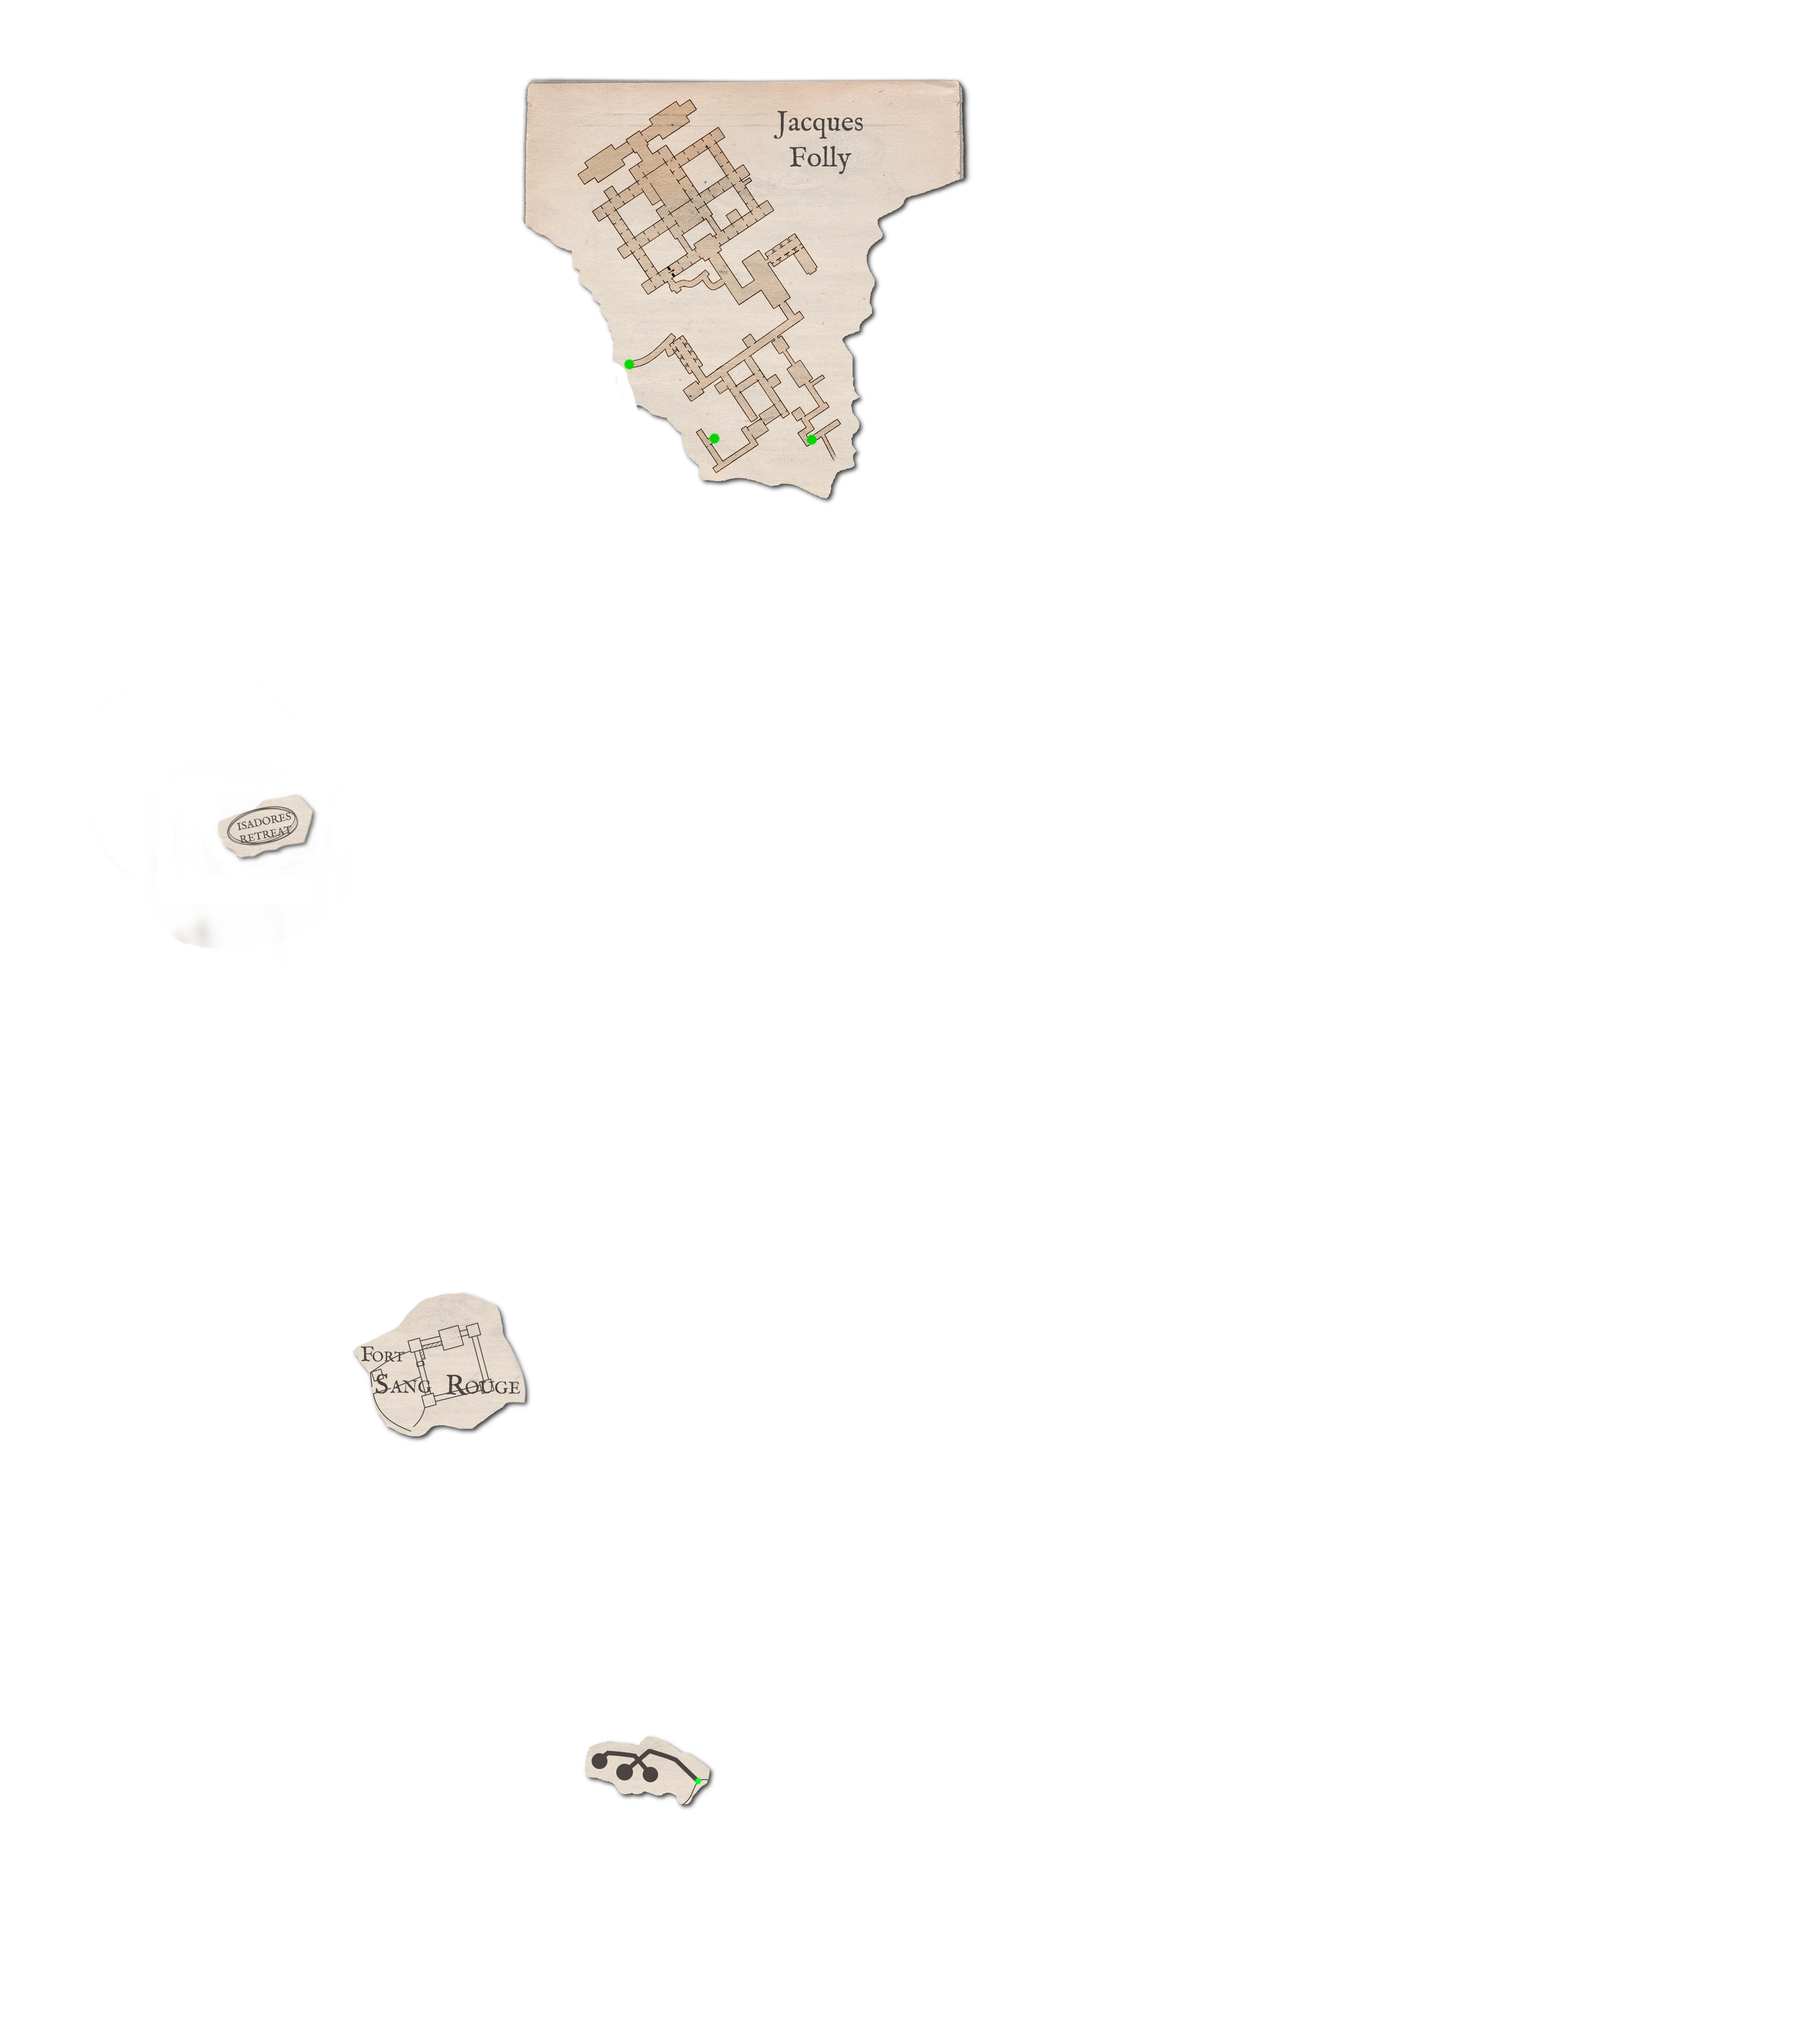
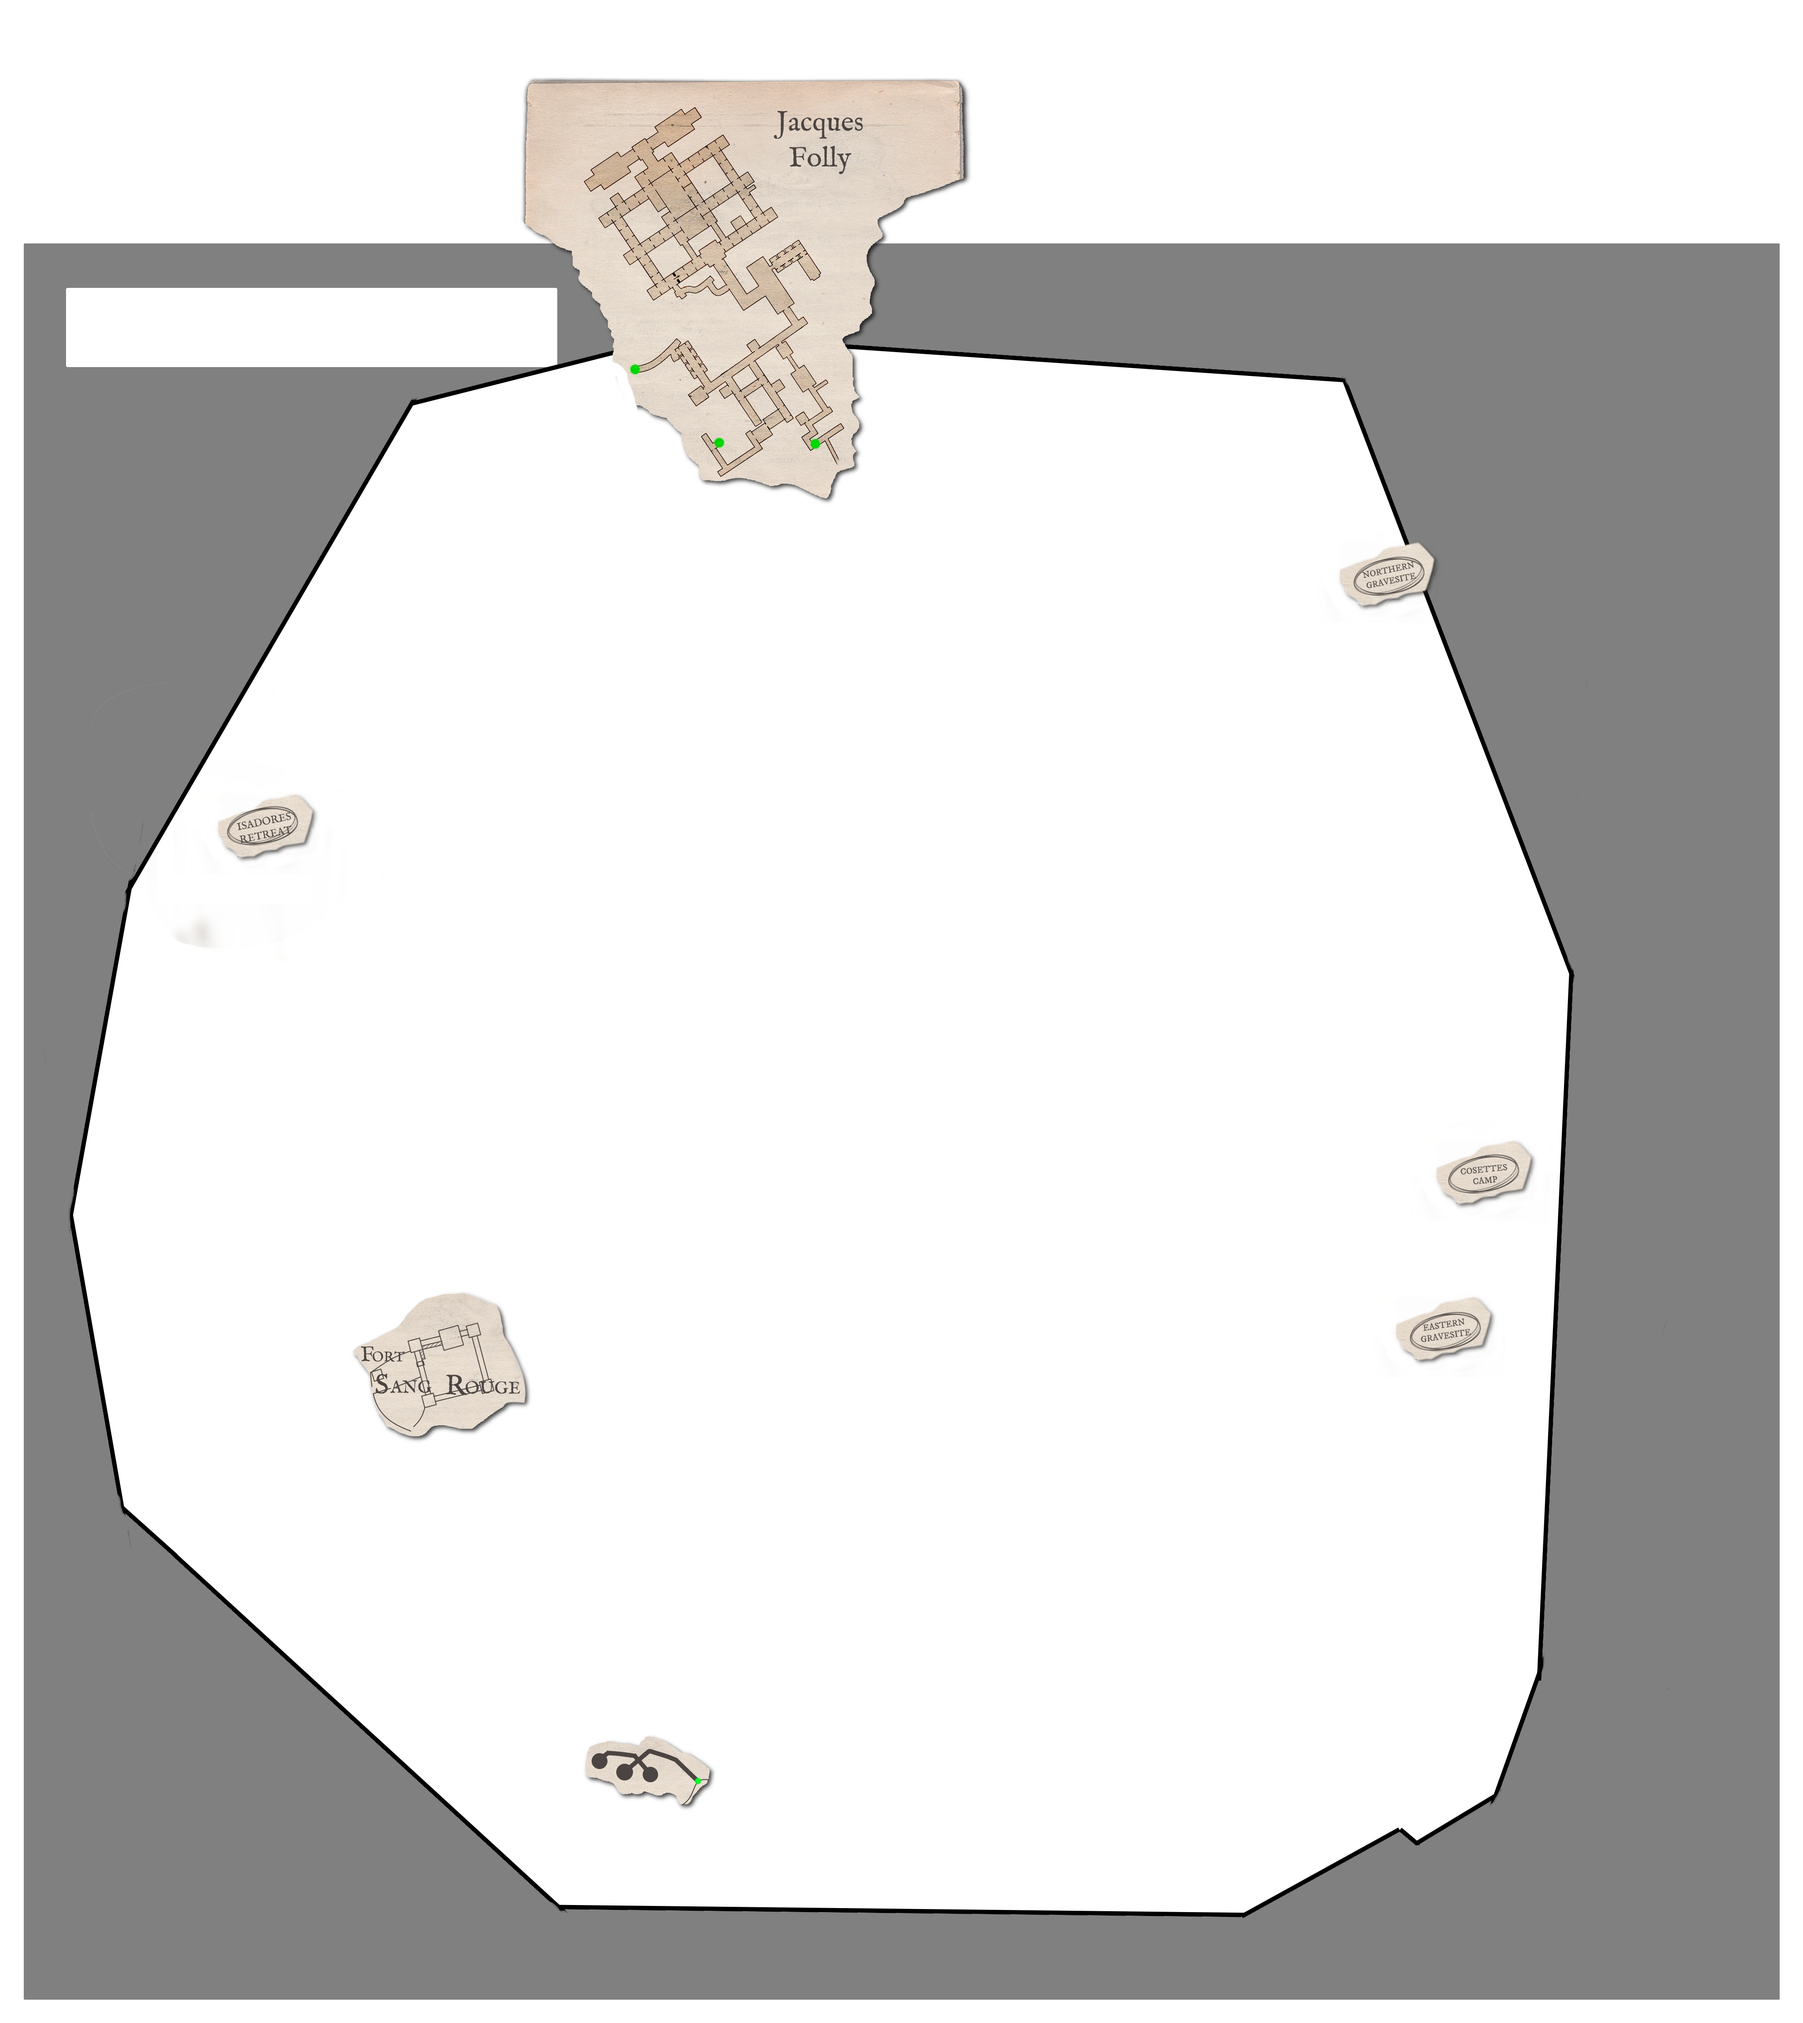
changes

Changed region(s): [[0.0, 0.0622, 1.0, 0.9956]]

diff --git a/js/marker.js b/js/marker.js
@@ -59,10 +59,10 @@ export class Marker {
             .replaceAll(/.*\.LIT_/g, "")
             .replaceAll(/[\W_]/g, " ") // Special chars to spaces
             .replaceAll(/([a-z])([A-Z])/g, "$1 $2") // Spaces between camel case words
-            .replaceAll(/(^(C|C LI|BP|SM|DA|PG|SC|LI) ?)/g, "") // Remove prefix/suffix chars
-            .replaceAll(/(Loot|AISpawner|Node|Static Mesh SM)/g, "") // Remove prefix/suffix chars
-            //.replaceAll(/(\W0\d.*)/g, "") // Remove prefix/suffix chars
-            //.replaceAll(/( (UREL|REL|C)$)/g, "") // Remove prefix/suffix chars
+            .replaceAll(/(^(C|C LI|BP|SM|DA|PG|SC|LI) ?|(Loot|AISpawner|Node|Static Mesh SM|Config Set DA))/g, "") // Remove prefix/suffix chars
+            //.replaceAll(/(Loot|AISpawner|Node|Static Mesh SM)/g, "") // Remove prefix/suffix chars
+            // .replaceAll(/(\W0\d.*)/g, "") // Remove prefix/suffix chars
+            .replaceAll(/( (UREL|REL|C)$)/g, "") // Remove prefix/suffix chars
             .replaceAll(/Chateau .*/g, "")
             .replaceAll(/Scav /g, "Scavenger ")
             .replaceAll(/Nat /g, "Naturalist ")
